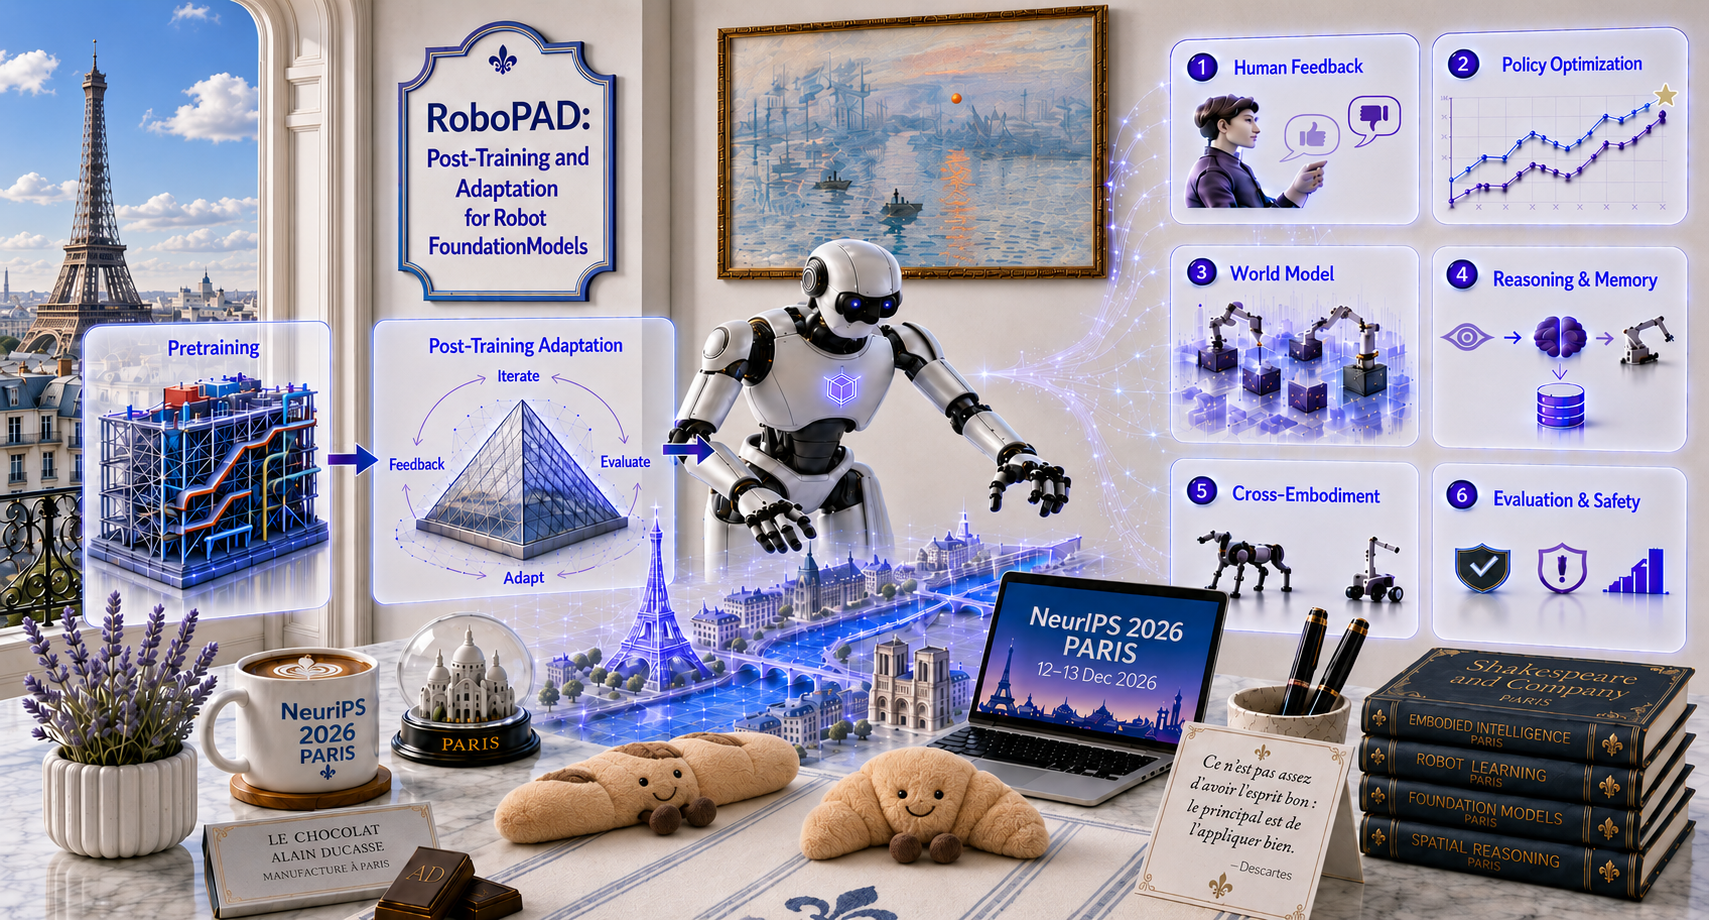
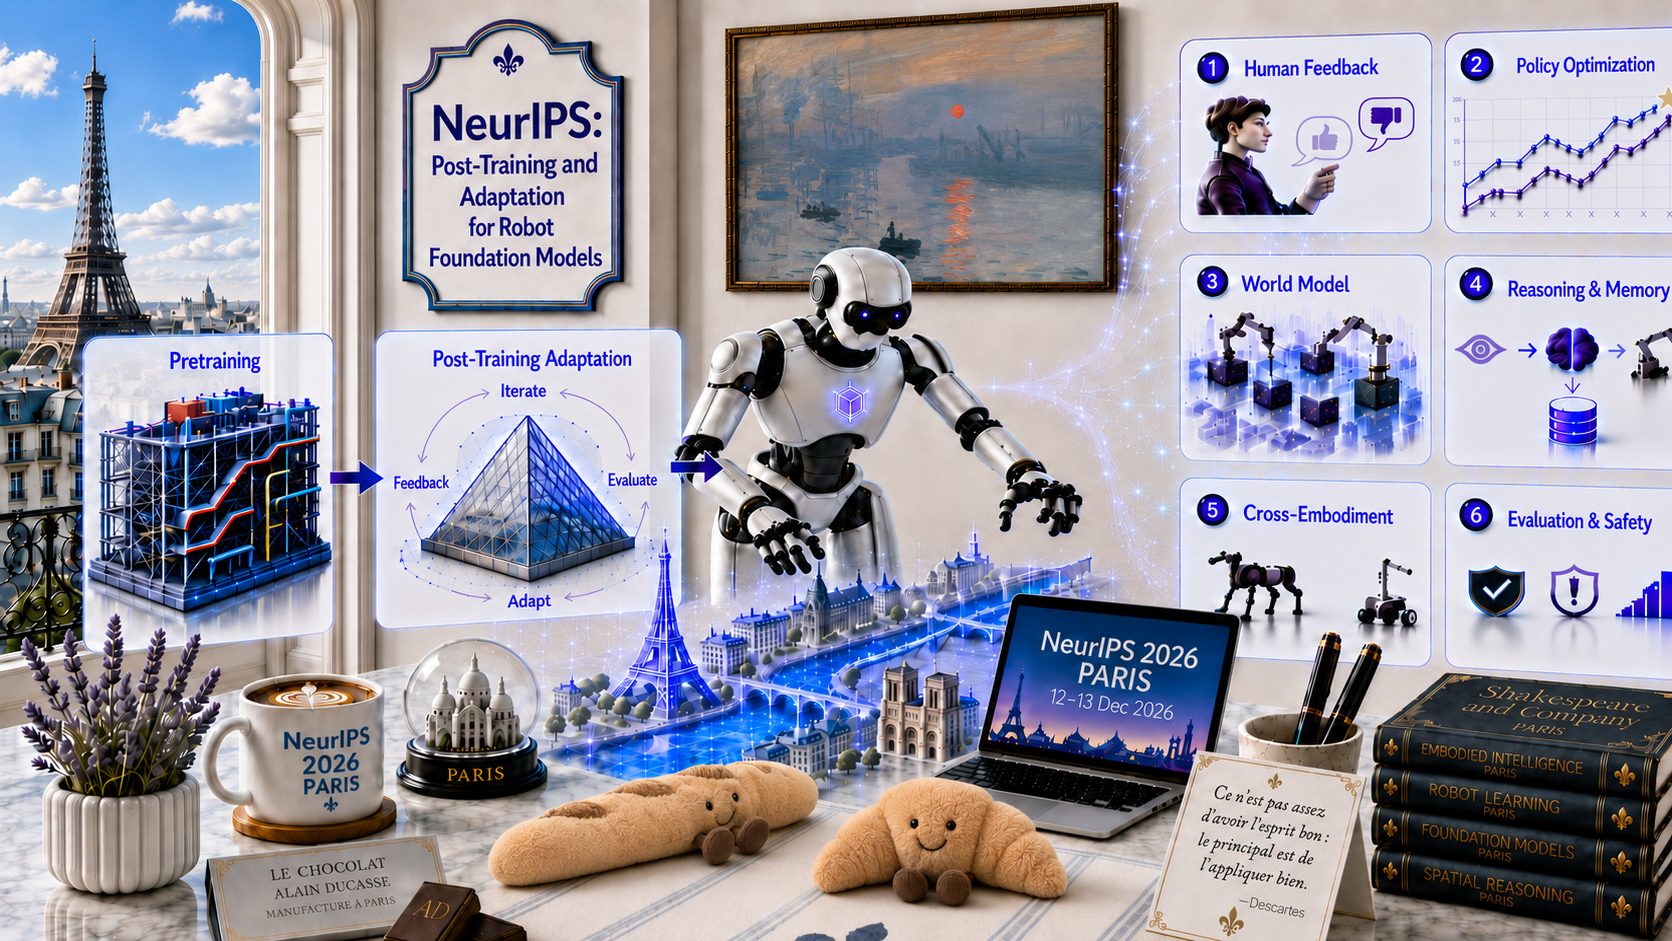
Update homepage teaser image to v11.

diff --git a/index.html b/index.html
@@ -234,7 +234,7 @@
                     <span class="pill inline-flex items-center rounded-full px-3.5 py-1.5 text-sm text-brand-100">Paris, France</span>
                 </div>
             </div>
-            <img src="teaser.png?v=10" alt="RoboPAD workshop teaser: post-training adaptation pipeline for robot foundation models" class="block h-auto w-full" loading="eager" decoding="async" />
+            <img src="teaser.png?v=11" alt="RoboPAD workshop teaser: post-training adaptation pipeline for robot foundation models" class="block h-auto w-full" loading="eager" decoding="async" />
             <div class="teaser-easter-egg px-6 py-4 md:px-8 md:py-5">
                 <p class="text-sm leading-relaxed text-brand-100/60 md:text-[0.95rem]">
                     <span class="mr-1.5 inline-flex align-[-0.15em]" aria-hidden="true">